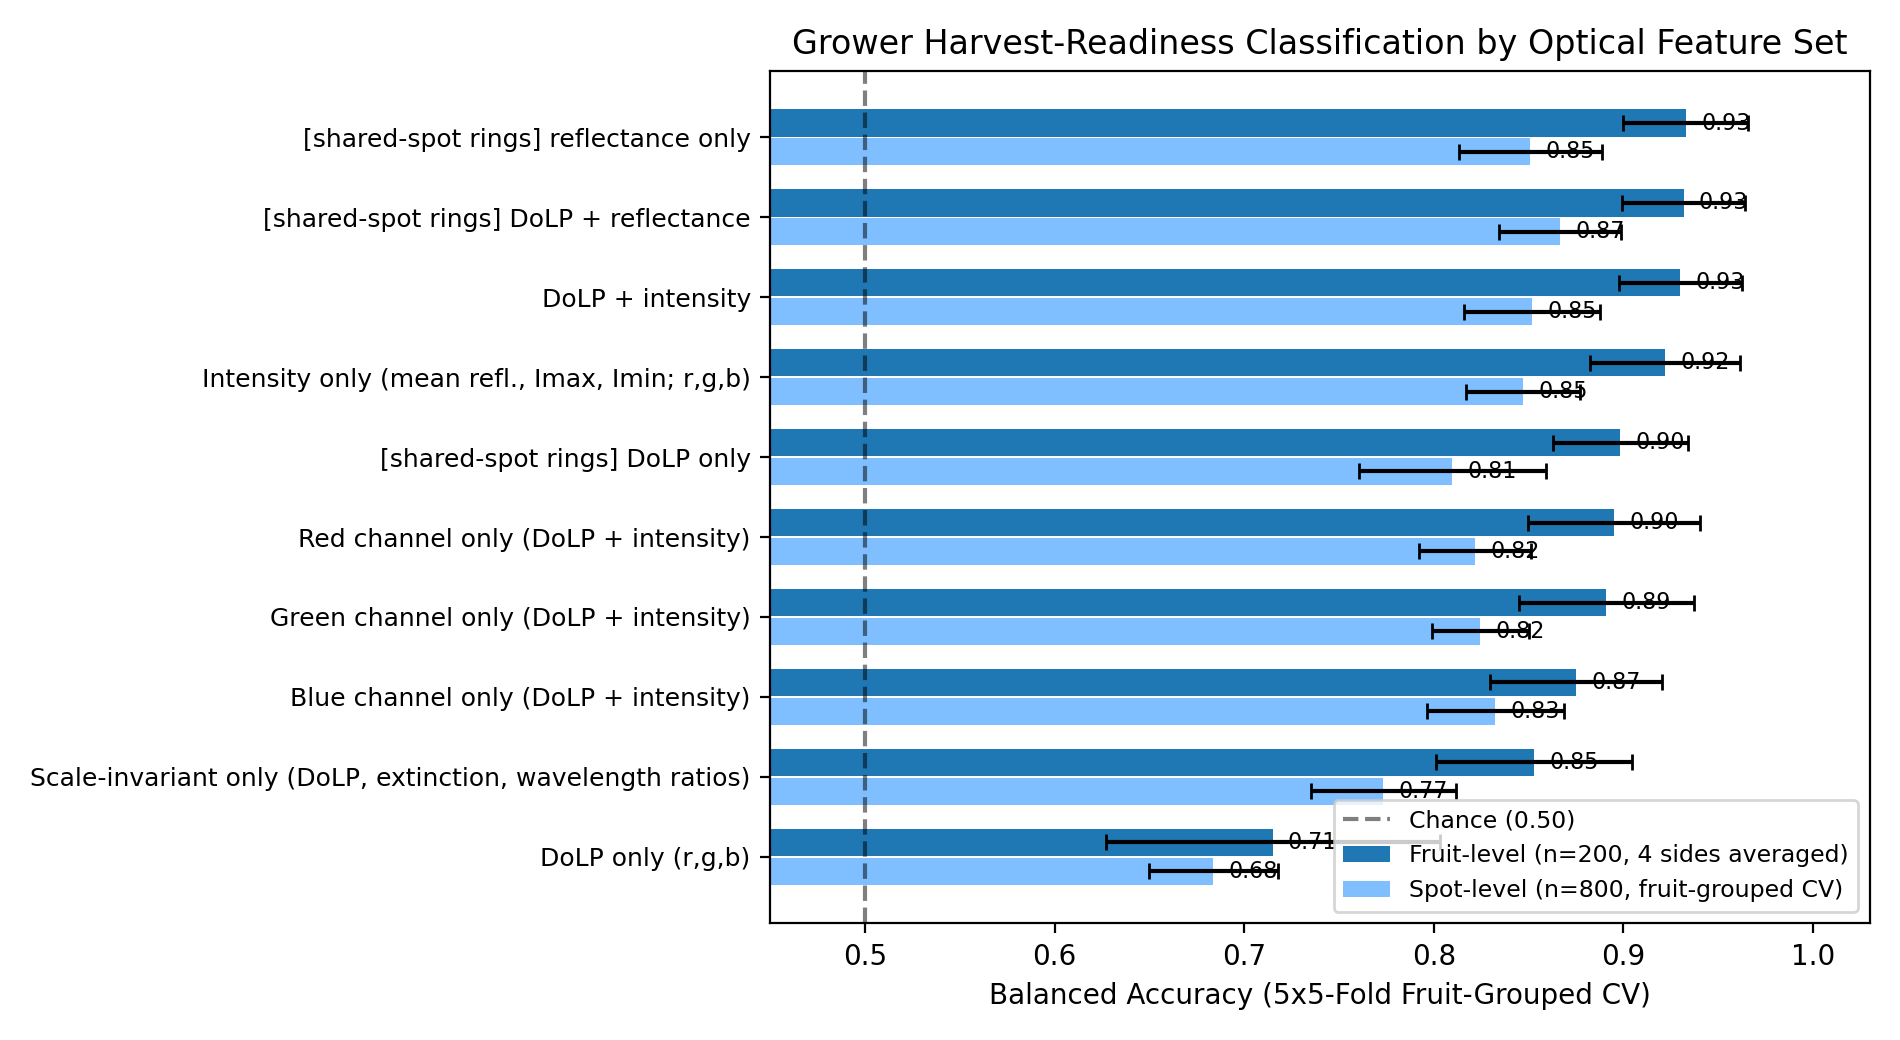
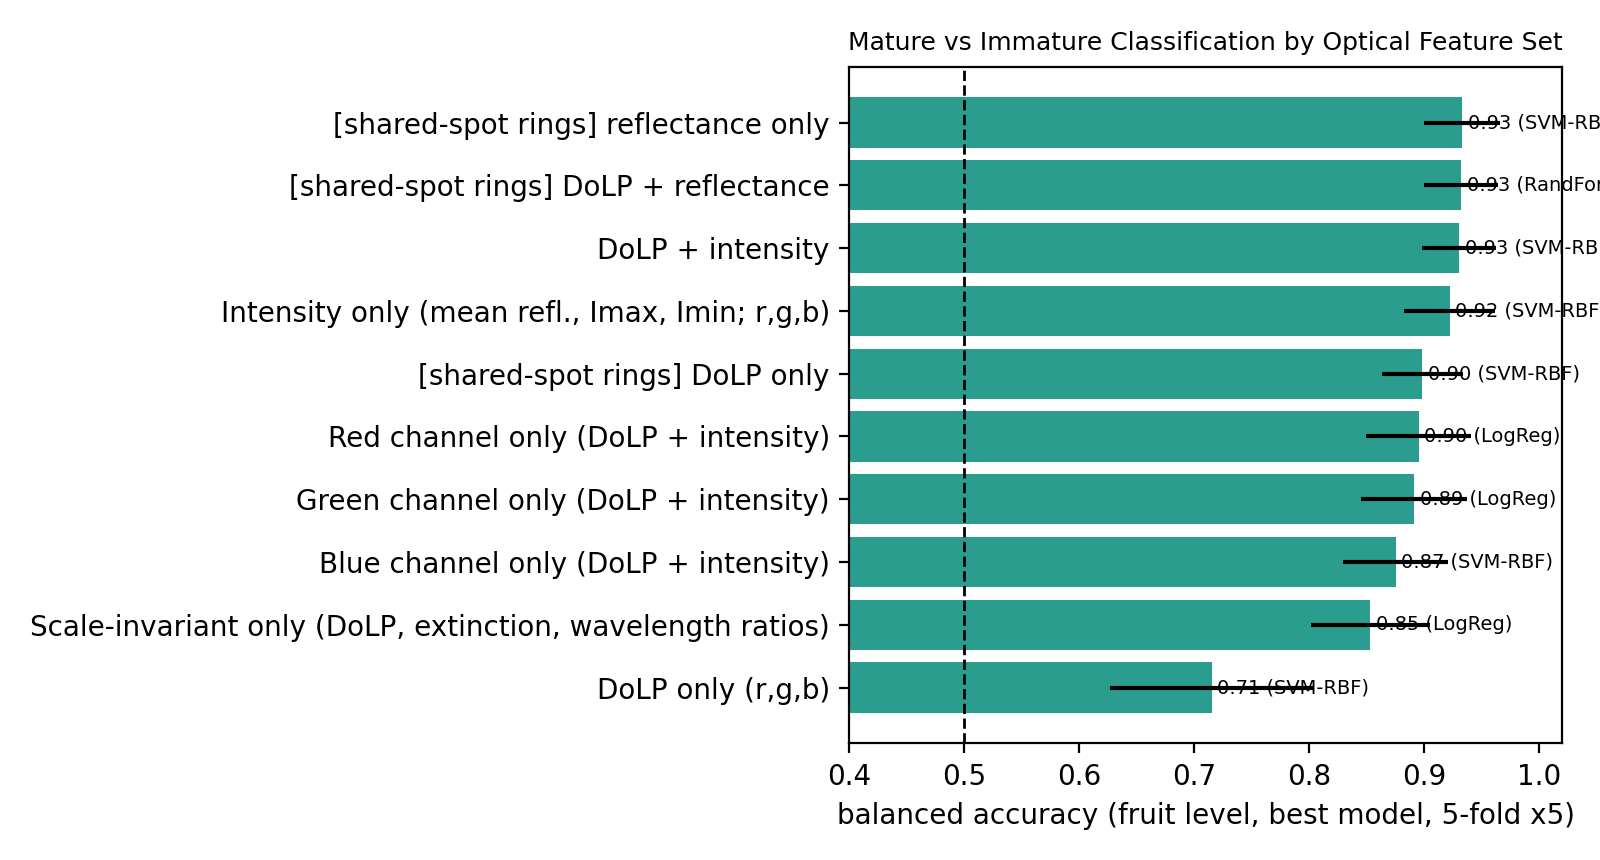
Remove PROBE analyzer and phase bars from fig_accuracy_by_featureset.png and 02_classify.py

diff --git a/farmersClassification/02_classify.py b/farmersClassification/02_classify.py
@@ -43,7 +43,7 @@ sets = {
     "Green channel only (DoLP + intensity)": ["DoLP_g", "logdc_g", "logImax_g", "logImin_g"],
     "Blue channel only (DoLP + intensity)": ["DoLP_b", "logdc_b", "logImax_b", "logImin_b"],
 }
-probes = {"PROBE analyzer step size only": ["step"], "PROBE polarizer phase only": [f"phase{a}_{c}" for a in ("c2", "s2") for c in "rgb"]}
+probes = {}
 # optional: shared-spot (v2) ring features, non-truncated spots
 V2P = os.path.join(BASE, "analysis_output_m01_v2", "results4", "spot_features_4sides.csv")
 V = None
@@ -117,7 +117,7 @@ fr = R[(R.level == "fruit")].sort_values("balanced_acc", ascending=False).groupb
 fig, ax = plt.subplots(figsize=(8, 4.6)); cols_ = ["#c0392b" if n.startswith("PROBE") else "#2a9d8f" for n in fr.feature_set]
 ax.barh(fr.feature_set, fr.balanced_acc, xerr=fr.sd, color=cols_); ax.axvline(0.5, c="k", ls="--", lw=1); ax.set_xlim(0.4, 1.02); ax.set_xlabel("balanced accuracy (fruit level, best model, 5-fold x5)")
 for i, (v, m) in enumerate(zip(fr.balanced_acc, fr.model)): ax.text(v + 0.005, i, f"{v:.2f} ({m})", va="center", fontsize=7)
-ax.set_title("Mature (batch A) vs Immature (batch B) from folder labels\nred = leakage probes (carry no fruit information)", fontsize=9); plt.tight_layout(); plt.savefig(os.path.join(OUT, "fig_accuracy_by_featureset.png"), dpi=160); plt.close()
+ax.set_title("Mature vs Immature Classification by Optical Feature Set", fontsize=9); plt.tight_layout(); plt.savefig(os.path.join(OUT, "fig_accuracy_by_featureset.png"), dpi=160); plt.close()
 
 # ROC + confusion for 'DoLP + intensity' and 'DoLP only' (fruit level, LogReg, one repeated-CV pooled)
 fig, axs = plt.subplots(1, 3, figsize=(13, 4))
